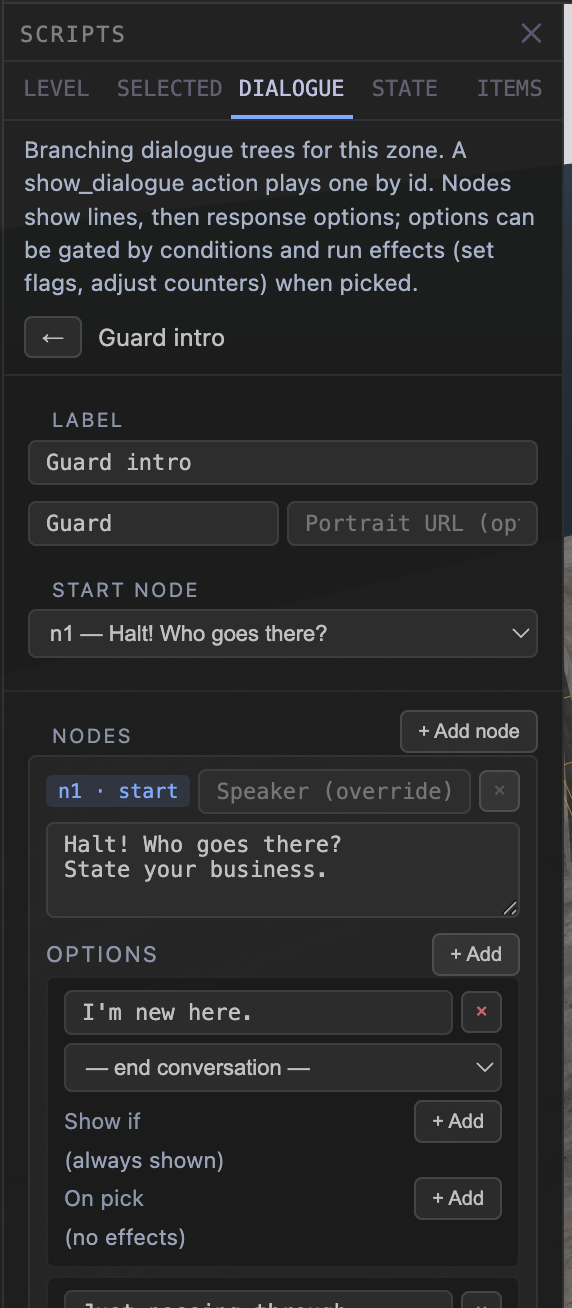
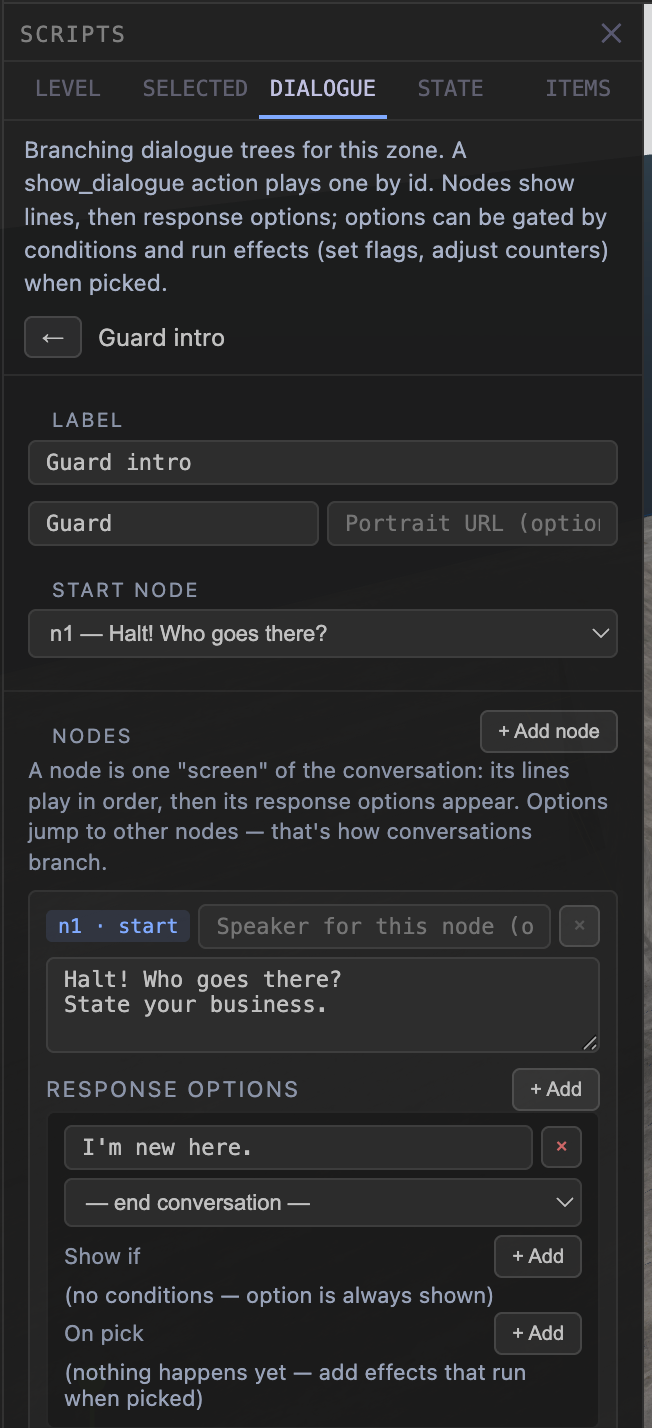
feat(dialogue): de-jargon the editor + widen left panel to 320px (v4.33.8)
- NODES section: inline explainer (a node = one screen of talk; options
  jump between nodes). OPTIONS header → RESPONSE OPTIONS + tooltip.
  n1·start badge, next-node dropdown, and per-node speaker get
  explanatory tooltips; 'Speaker (override)' → 'Speaker for this node
  (optional)'. Empty-options note spells out the consequence.
- LeftPanel 280 → 320px — the dialogue/condition rows were the app's
  tightest UI (the has_item wrap was a symptom).
- DIALOGUES_GUIDE: 'Why node?' aside (graph origin, Twine/Ink/Yarn
  convention), node-card anatomy, RESPONSE OPTIONS terminology, new
  empty-state texts quoted; editor screenshot retaken with current copy
  and the wider panel.

diff --git a/src/ui/ScriptPanel.tsx b/src/ui/ScriptPanel.tsx
@@ -2602,6 +2602,11 @@ function DialogueEditor({
               + Add node
             </button>
           </div>
+          <div style={{ color: "#8b94a8", fontSize: 11, lineHeight: 1.4, padding: "0 0 6px" }}>
+            A node is one "screen" of the conversation: its lines play in
+            order, then its response options appear. Options jump to other
+            nodes — that's how conversations branch.
+          </div>
           {dialogue.nodes.map((node) => (
             <DialogueNodeCard
               key={node.id}
@@ -2725,6 +2730,9 @@ function DialogueNodeCard({
         }}
       >
         <span
+          title={isStart
+            ? "This node's id — the conversation starts here; response options elsewhere can jump to it"
+            : "This node's id — response options jump to nodes by these ids"}
           style={{
             color: "#80aaff",
             fontSize: 10,
@@ -2739,7 +2747,7 @@ function DialogueNodeCard({
         </span>
         <input
           style={{ ...S.field, flex: 1 }}
-          placeholder="Speaker (override)"
+          placeholder="Speaker for this node (optional)" title="Overrides the dialogue's Speaker while this node is on screen"
           value={node.speaker ?? ""}
           onChange={(e) => set("speaker", e.target.value || undefined)}
         />
@@ -2773,8 +2781,11 @@ function DialogueNodeCard({
           marginTop: 4,
         }}
       >
-        <span style={{ color: "#8b94a8", fontSize: 11, letterSpacing: 1, textTransform: "uppercase" }}>
-          Options
+        <span
+          title="What the player can say when this node's lines finish"
+          style={{ color: "#8b94a8", fontSize: 11, letterSpacing: 1, textTransform: "uppercase" }}
+        >
+          Response options
         </span>
         <button style={{ ...S.btn(), fontSize: 10 }} onClick={addOption}>
           + Add
@@ -2782,7 +2793,7 @@ function DialogueNodeCard({
       </div>
       {node.options.length === 0 && (
         <div style={{ color: "#98a2b8", fontSize: 11, padding: "4px 0" }}>
-          (none — ends after last line)
+          (no responses — the conversation ends after this node's last line)
         </div>
       )}
       {node.options.map((opt, i) => (
@@ -2890,6 +2901,7 @@ function DialogueOptionRow({
         </button>
       </div>
       <select
+        title="Where this response leads — another node, or end the conversation"
         style={{ ...S.select, marginBottom: 4 }}
         value={option.next ?? ""}
         onChange={(e) => set({ next: e.target.value || undefined })}

diff --git a/src/ui/LeftPanel.tsx b/src/ui/LeftPanel.tsx
@@ -100,7 +100,7 @@ export function LeftPanel({
       left: 64,
       top: 48,
       bottom: 0,
-      width: open ? 280 : 0,
+      width: open ? 320 : 0,
       overflow: "hidden",
       transition: "width 0.2s ease",
       background: "rgba(28,28,28,0.97)",

diff --git a/DIALOGUES_GUIDE.md b/DIALOGUES_GUIDE.md
@@ -28,8 +28,17 @@ Three building blocks:
 | Thing | What it is |
 |---|---|
 | **Node** | One "screen" of the conversation: the NPC's lines (shown one at a time, confirm to advance), followed by the player's response options. |
-| **Option** | One player response. It can be **gated** (hidden unless conditions pass), can **do things** when picked (set flags, adjust counters, any script action), and either **jumps to another node** or **ends** the conversation. |
+| **Response option** | One player response. It can be **gated** (hidden unless its "Show if" conditions pass), can **do things** when picked (its "On pick" effects — set flags, give items, any script action), and either **jumps to another node** or **ends** the conversation. |
 | **Tree** | The whole conversation: a label (for you), a speaker name (shown in-game), a start node, and its nodes. Each tree gets an id like `dlg_a1b2c3d4` that scripts reference. |
+
+> **Why "node"?** Because a conversation is a flowchart (a *graph*, in math
+> terms), and the standard name for a point in a graph is a node — the
+> response options are the arrows between them. Every branching-dialogue tool
+> uses some flavor of this word (Twine calls them passages, Ink calls them
+> knots, Yarn calls them nodes too). Practically, just read "node" as **"one
+> screen of talk"**. Their ids (`n1`, `n2`, …) are auto-numbered and only
+> matter as jump targets — the next-node dropdown shows each node's first
+> line next to its id so you rarely think about the numbers.
 
 Two rules cover most of the behavior:
 
@@ -55,7 +64,11 @@ Two rules cover most of the behavior:
    - **Start node** — which node plays first (usually `n1`; you rarely change
      this).
 4. Type the NPC's lines into the node's textarea — **one line per row**; the
-   player presses E (or A / tap) to step through them.
+   player presses E (or A / tap) to step through them. The node card's other
+   pieces: the blue **`n1 · start`** badge is the node's id (jump target —
+   hover it for a reminder), and **"Speaker for this node"** optionally
+   replaces the dialogue's Speaker while that node is on screen (for a second
+   character butting into the conversation).
 
 Here's the whole editor with a one-node dialogue staged — label and speaker
 up top, the start-node picker, then the node card with its lines and options:
@@ -64,17 +77,20 @@ up top, the start-node picker, then the node card with its lines and options:
 
 ### Adding responses
 
-Under a node's **OPTIONS**, click **+ Add**:
+Under a node's **RESPONSE OPTIONS**, click **+ Add**:
 
 - **Response text** — what the player sees, e.g. `Who are you?`
 - **Next-node dropdown** — where picking it leads:
   - a node (`→ n2 — Welcome, stranger.`), or
   - **— end conversation —** to close the dialogue.
-- **Show if** (+ Add) — conditions; the option is *hidden* unless **all** pass:
+- **Show if** (+ Add) — conditions; the option is *hidden* unless **all**
+  pass. With none added, the row reads *"(no conditions — option is always
+  shown)"* — that's the default, not a warning:
   - `has_state <key>` — the flag/key is set (and not false/null).
   - `compare_number <key> <op> <value>` — numeric check, e.g. `coins >= 5`.
-- **On pick** (+ Add) — effects that run the moment the player picks it. Any
-  script action works; the ones you'll use most:
+- **On pick** (+ Add) — effects that run the moment the player picks it
+  (empty rows say so: *"nothing happens yet — add effects that run when
+  picked"*). Any script action works; the ones you'll use most:
   - `set_state` — set a flag: key `met_guard`, value `true`.
   - `adjust_number` — add/subtract a counter: key `coins`, delta `-5`.
   - but also `play_sound`, `teleport_player`, `despawn_object`,

diff --git a/WORLD_EDITOR_ARCHITECTURE.md b/WORLD_EDITOR_ARCHITECTURE.md
@@ -159,6 +159,7 @@
 - v4.33.0 — **Phase 39 — Brush inset / edge split / recess (SketchUp-style push-pull).** Three new pure topology ops in `brushOps.ts`, all returning `BrushMeshData` and gated by `validateMesh`, wired as panel buttons through the existing `run() → onObjectUpdate({ mesh })` single-transaction path; zero builder/collider/WorldState/SelectionManager changes (face-brush rebuild, trimesh collider, undo, and sub-selection clamping are generic). **(1) `insetFace(mesh, faceIdx, margin=0.25)`** — replaces a face with a border ring of quads + a new inner face at **uniform width**: each corner moves inward along its angle bisector with miter length `margin/sin(θ/2)` (in-plane edge normals `n × d`; a centroid scale would give non-uniform borders on elongated faces — verified: a 6×2.5 wall face insets to 5.5×2.0, exactly 0.25 on all sides). Inner verts are pushed fresh (never `addOrReuse` — welding onto the outer ring would corrupt topology); guards reject margins too large (collapsed inner edge, inverted/degenerate raw-Newell inner loop — verified: repeated INSET on a shrinking face aborts with a warn, state unchanged) and near-degenerate corners (`sin(θ/2) < 0.05`). The inner face takes over `faces[faceIdx]` (keeps material/overrides, stays selected — the SketchUp flow: INSET then immediately EXTRUDE/RECESS acts on it). Outer ring untouched → no T-junction propagation needed. **(2) `splitEdge(mesh, [a,b])`** — the arbitrary-polygon generalization of `splitFaceQuad`'s edge cut: midpoint via `addOrReuse`, spliced into **both** loops traversing the edge by the new shared `spliceMidpoint` helper (extracted from `splitFaceQuad`, which now calls it twice — behavior identical); defensive `count === 2` check (manifold invariant + catches midpoint-welding collisions). Returns `SplitEdgeResult { mesh, mid }` — the caller needs `mid` because the old edge pair is no longer traversed (SelectionManager's liveness clamp would drop the selection). **(3) Negative `extrudeFace` dist** — guard relaxed from `dist <= 0` to `dist === 0 || !isFinite`; the side-quad winding `[p, q, qd, pd]` is **sign-agnostic by directed-edge pairing** (the band must supply p→q against the neighbor's q→p and qd→pd against the moved cap's pd→qd whichever way the ring moved — commented in code so nobody "fixes" it) — the entire diff is the guard line. **Panel:** `ShapeFaceOps` gains INSET + RECESS (−0.25) in a second button row (`OP_BTN` styles hoisted to module scope); new **`EdgesList`** view (`ShapeGeoView` now routes `select-edge` for face-brushes, which previously fell through to the transform view) — a single card for `selected.edgeVerts` (edges have no stored identity) with endpoint coords and **SPLIT EDGE**, which commits and then re-emits `shape:sub-select` with the surviving sub-edge `[min(a,mid),max(a,mid)]` so the edge selection + TC gizmo stay live (verified: panel card updates to the half-edge after splitting). Known v1 limits: strongly concave inset can self-intersect past the guards (validateMesh catches many); a shallow recess punch-through of a large solid can validate (net volume still positive) — user undoes; recess of a full un-inset face makes a valid zero-thickness rim (tooltip steers to inset first); split is midpoint-only. Verified in-browser end-to-end through real panel buttons on a converted box brush: INSET 12v/10f → RECESS 16v/14f (cap exactly −0.25), edge-pairing probe manifold after every op, EXTRUDE + SPLIT ─ regressions pass, Cmd+Z walks back exactly one op per press. A labeled demo brush (`demo_p39_carved_wall`, brick) with a window recess, an end boss, and a split-edge roof peak is left in the level-2 world. Plan: `plans/phase-39-brush-inset-carve.md`; acceptance: `test-plans/phase-39-brush-inset-carve.md`.
 - v4.33.1 — **Follow-the-camera sun shadows + PCFSoft (fixes blocky recess shadows).** User report: stair-stepped blocky shadow inside a carved brush alcove. Root cause wasn't the brush geometry — the sun's shadow map was 1024² stretched over a static ±40m ortho box (≈8cm/texel, smearing into big blocks where a rim shadow crosses a wall at a grazing angle), and the box couldn't cover the whole level anyway (content at x −55 cast no sun shadow at all; the user's carved structure sat right at the x −40 clip edge). Fix in `SceneManager`: box shrunk to **±25m** and re-centered every frame on the editor focus / 15m ahead of the play camera, texel-snapped in the (fixed) shadow-camera basis so edges don't shimmer when panning — ~1.6× sharper AND full-world coverage; plus `PCFShadowMap` → `PCFSoftShadowMap`, A/B-measured free on the user's level (98–112 vs 101–113 FPS, same worst-ms). Details in the SceneManager section.
 - v4.33.2 — **Dimmed off-level geometry is click-through (the ghost-ceiling rule, generalized).** User report: on floor G, level-1 walls (dimmed by the floor-level pass) still ate selection clicks — unlike ghost ceilings. `SelectionManager._cast`'s solid-tier filter now also demotes any hit whose `userData.floorLevel` ≠ the active floor level (alongside `ghostPick`): off-level geometry is picked **only when nothing active-level is under the cursor**, so it stays selectable on empty space (clicking a level-1 wall against the sky still selects it; with floor 1 active it selects normally). Off-level *floors* keep their existing hard skip (`editorType === "floor"` check). Verified in-browser on the user's room stack: on floor G a click on the level-1 front wall's face selects the ground room's polygon floor behind it; sky-backed and floor-1-active clicks select the wall.
+- v4.33.8 — **Dialogue editor de-jargoning + wider left panel** (user feedback continuing the "(always shown)" thread: "lots of implicit stuff here — nodes? n1? speaker override?"). ScriptPanel DIALOGUE editor: NODES section gains an inline explainer ("a node is one 'screen' of the conversation… options jump to other nodes — that's how conversations branch"); the **OPTIONS** section header is now **RESPONSE OPTIONS** (+ tooltip); the `n1 · start` id badge and the next-node dropdown get explanatory tooltips; `Speaker (override)` placeholder → "Speaker for this node (optional)" with a tooltip; empty-options note → "(no responses — the conversation ends after this node's last line)". **LeftPanel width 280 → 320px** — the dialogue/condition rows were the tightest UI in the app (the has_item wrap of v4.33.5 was a symptom); every left-panel browser benefits. `DIALOGUES_GUIDE.md`: "Why 'node'?" aside (graph/flowchart origin, Twine/Ink/Yarn convention, "read it as one screen of talk"), node-card anatomy paragraph (badge + per-node speaker), RESPONSE OPTIONS terminology aligned, the new empty-state texts quoted so guide and UI match; the editor screenshot **retaken** with all the new copy + wider panel (the previous shot showed the pre-v4.33.7 "(always shown)" text).
 - v4.33.7 — **Guides pass: DIALOGUES.md → `DIALOGUES_GUIDE.md` (matching the *_GUIDE.md convention) with two real screenshots** (the full DIALOGUE-tab editor with a staged tree, and the in-game overlay mid-options — docs/images/dialogue-editor.png / dialogue-ingame.png); its items callout updated to the Phase-32+ reality (Starting count field, has_item comparisons, no `inv.<id>` exposition — defers to STATE_ITEMS_GUIDE). **STATE_ITEMS_GUIDE.md inventory deep-dive**: new "The bag (the player's inventory view)" (open/close keys, dialogue/pause suppression, live count updates, unregistered-item fallback, explicit view-only-v1 scope), "How the numbers behave" (give clamps to stackSize, take floors at 0 and never fails, persistence matrix, one-counter-per-item), and "A complete inventory loop" ten-minute walkthrough wiring pickup → shop → gated door → LIVE VALUES. Live references updated (HUMAN_TESTING, arch future-systems row); historical changelog/plan mentions left as written.
 - v4.33.6 — **STATE tab live-values pane + teaching empty states.** (1) While a preview session runs, the STATE tab shows a green read-only **LIVE VALUES** pane (new `LiveValues` component in ScriptPanel): every current gameState entry, refreshed on a 500ms tick (gated to previewing + STATE tab visible — a watch pane, not a per-frame HUD), item counters displayed by item label with a 🎒 (raw key fallback for unregistered), `__`-prefixed engine keys hidden. Answers "why isn't my condition firing" without the browser console. **Preview-mode only by architecture**: game mode hides all editor UI (`!isGame` gate around Toolbar/LeftPanel), so the pane's audience is ▶ Preview — documented in the guide. Threading: `isPreviewing` prop App→LeftPanel→ScriptPanel. (2) All four SCRIPTS-panel empty states (state keys, items, scripts, dialogues) now teach instead of shrug — e.g. "Nothing registered yet — scripts can use any key without registering it…". Guide gains a "Watching values live" section + screenshot (docs/images/live-values.png). Verified in-browser: pane hidden while not playing, appears in preview with health/flag/counter/item-by-label rows updating, stale keys removable via delete_state.
 - v4.33.5 — **Items/state UX pass: Starting count, `inv.<id>` de-plumbing, `has_item` comparisons, key suggestions, readable hint text** (driven by user feedback: "the UX on items and state are not as obvious to me" / "the editor user should never have to think about `inv.<id>`"). (1) **Starting count on items** — `ItemDef.startCount?`; new `seedStartingInventory(world)` in `scripting/inventory.ts` runs right after every New Game reset (App preview:start reset branch + SceneRouter `newGame` — never on scene transitions, so no re-granting; clamped to stackSize). Replaces the hidden-key dance (STATE tab → hand-typed `inv.<id>` default) as the starting-inventory story. (2) **`inv.<id>` removed from authoring UX**: item rows drop the `state key inv.…` footer, ItemPicker options show label only (custom-id preservation unchanged), ITEMS blurb rewritten in intent language. (3) **`has_item` gains a comparison dropdown** — `ScriptCondition.compareOp` now applies (`owned <op> count`, default `>=` preserving all existing conditions; engine uses `compareNum`) — "fewer than 5 coins" and "has none" (`== 0`) are picker-expressible, closing the last realistic need to type an item's raw key. ConditionRow wraps the has_item fields onto a second line (4 controls don't fit one 280px row; root gains flexWrap). (4) **State-key suggestions**: one shared `<datalist id="wb-state-keys">` at the ScriptPanel root (registered keys from BOTH schema scopes + every item's counter listed by item label) wired into all 8 state-key inputs (conditions, set/adjust/delete_state, on_state_changed target, store_position) — native type-or-pick, free text still allowed. (5) **Contrast pass**: ScriptPanel's `#555`/`#606070`-on-dark hint/blurb text lifted to `#98a2b8`/`#8b94a8` at 11px; per-tab blurbs 11.5px non-italic (user: "no more dark grey text on darker grey"). Verified in-browser: New Game seeds startCount (bag ×5) in editor preview; has_item semantics exact (`<5` true at 3, `<3` false, `==3` true, `==0` true unowned, legacy `≥` default intact); datalist present with schema keys; has_item row renders item/op/count wrapped; no `inv.` text anywhere in the panel. Companion user guide: `STATE_ITEMS_GUIDE.md` (5 real screenshots in docs/images/).